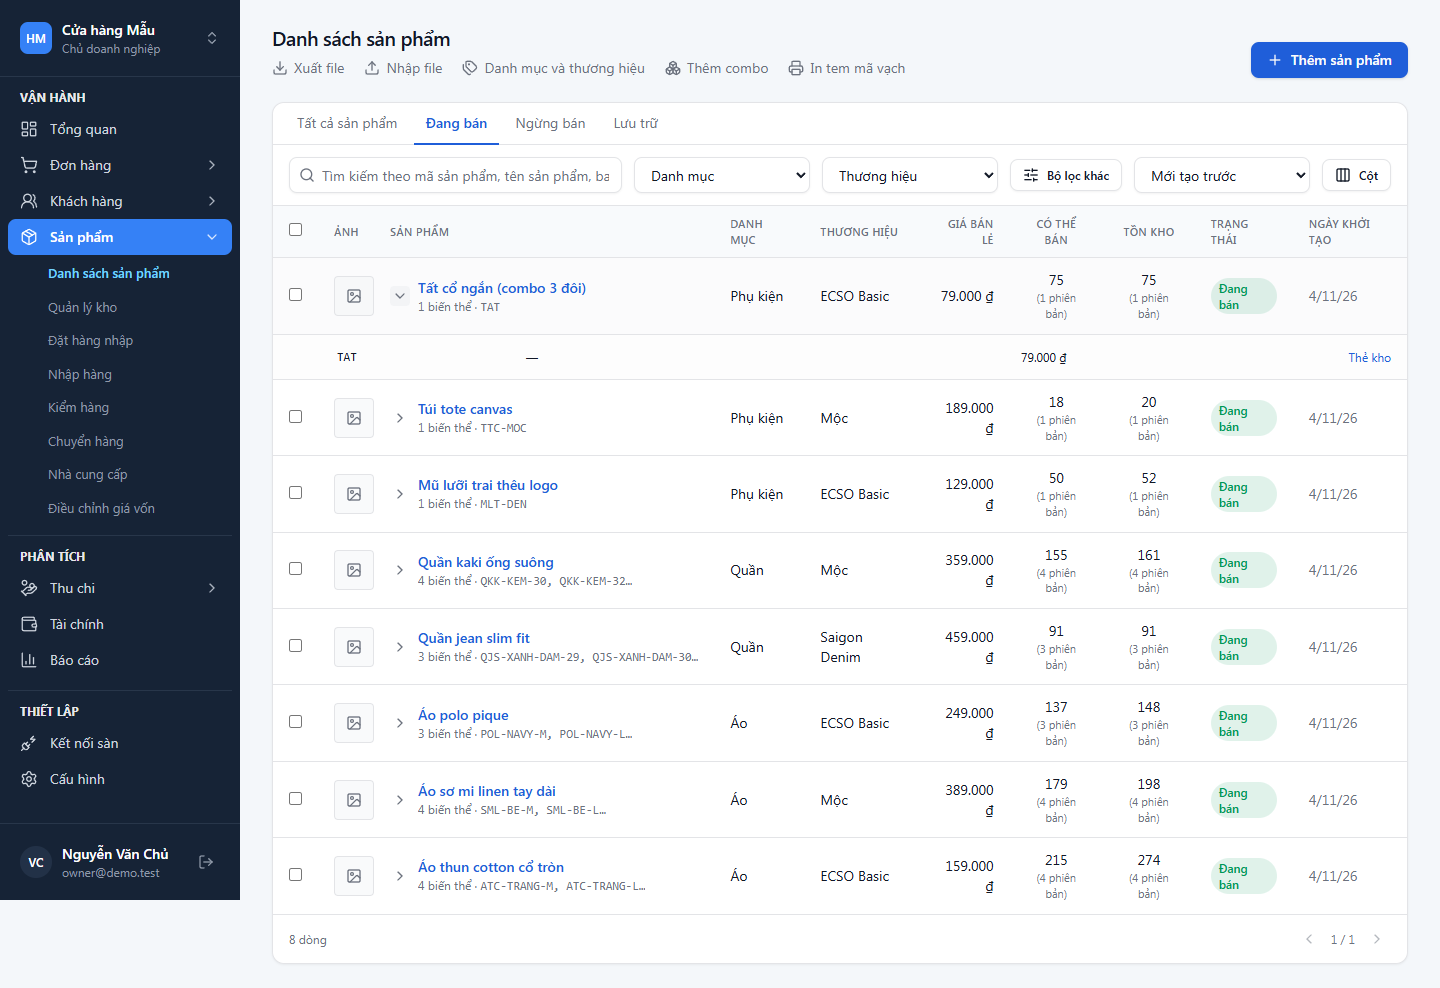
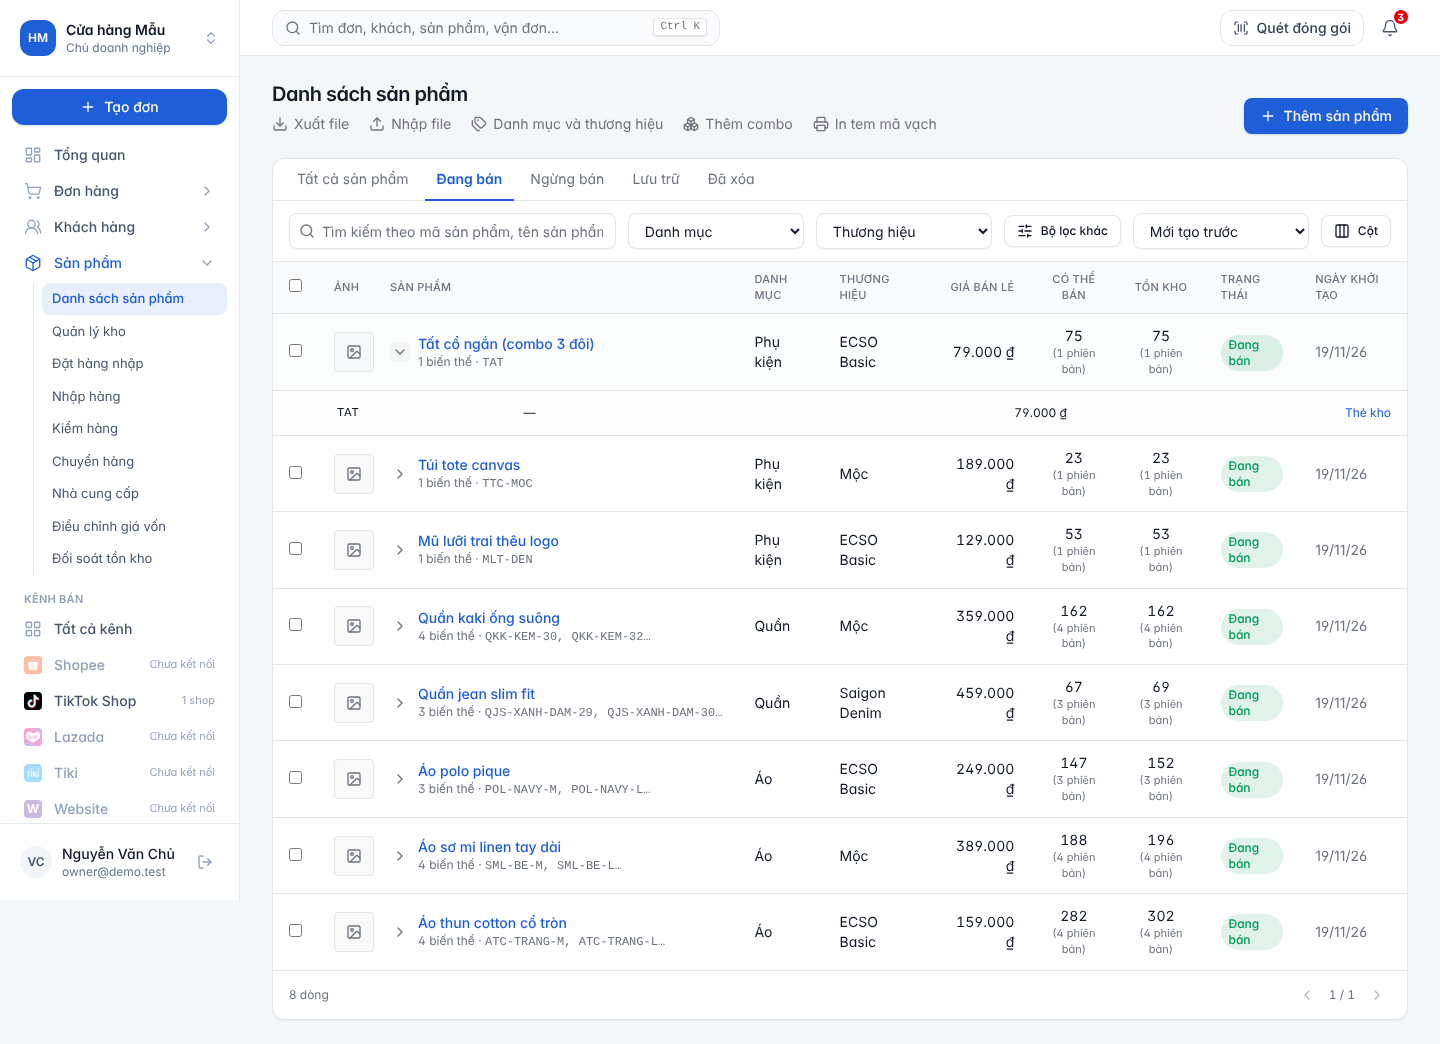
Sidebar mới: nền trắng, nút Tạo đơn, mỗi sàn một dòng riêng
- Menu trắng giữ đủ mục con; nhóm đang mở có đường kẻ dọc, mục đang chọn nền xanh nhạt.
- Kênh bán: Tất cả kênh, Shopee, TikTok Shop, Lazada, Tiki, Website (logo + số shop hoặc Chưa kết nối), Trung tâm đồng bộ.
- Trang Kết nối sàn lọc theo ?san=<sàn> khi mở từ dòng của sàn đó.
- Thanh trên có nút Quét đóng gói; nội dung rộng tới 1600px thay vì 1280px.

Claude-Session: https://claude.ai/code/session_01MAbhYuP6fzuvEtxHf4QSn8

diff --git a/resources/js/apps/tenant/layouts/AppLayout.vue b/resources/js/apps/tenant/layouts/AppLayout.vue
@@ -1,13 +1,15 @@
 <script setup lang="ts">
 import { computed, ref, watch } from 'vue';
 import { useRoute, useRouter } from 'vue-router';
-import { Check, ChevronDown, ChevronRight, ChevronsUpDown, LogOut, Plus, Search } from 'lucide-vue-next';
+import { Check, ChevronDown, ChevronRight, ChevronsUpDown, LogOut, Plus, ScanBarcode, Search } from 'lucide-vue-next';
 import { useAuthStore } from '@/shared/stores/auth';
 import { useTenantStore } from '@/shared/stores/tenant';
 import { useGoShortcuts } from '@/shared/composables/useShortcuts';
 import { useToast } from '@/shared/composables/useToast';
 import { cn, initials } from '@/shared/lib/utils';
 import Badge from '@/shared/ui/Badge.vue';
+import MarketplaceLogo from '@/shared/ui/MarketplaceLogo.vue';
+import { api } from '@/shared/lib/api';
 import { allNavItems, navGroups, type NavItem } from '../navigation';
 import GlobalSearch from '../components/GlobalSearch.vue';
 import NotificationBell from '../components/NotificationBell.vue';
@@ -44,7 +46,33 @@ const visibleGroups = computed(() =>
 );
 
 // Sidebar sub-menus (like Sapo): the section of the current page is open; others open with the chevron.
-const isActive = (item: NavItem) => route.meta.nav === item.name || (item.alsoActive ?? []).includes(String(route.meta.nav));
+const isActive = (item: NavItem) => {
+    // Kênh bán: one line per marketplace (?san=key), "Tất cả kênh" for the rest of the marketplace pages, the sync centre on its own.
+    if (item.marketplace) return route.meta.nav === 'marketplaces' && route.query.san === item.marketplace;
+    if (item.name === 'marketplace-sync') return route.name === 'marketplace-sync';
+    if (item.name === 'marketplaces') return route.meta.nav === 'marketplaces' && !route.query.san && route.name !== 'marketplace-sync';
+    return route.meta.nav === item.name || (item.alsoActive ?? []).includes(String(route.meta.nav));
+};
+
+/** Connected shops per marketplace, shown beside each marketplace line. */
+const shopCounts = ref<Record<string, number>>({});
+async function loadShopCounts() {
+    shopCounts.value = {};
+    if (!tenant.can('marketplace.view')) return;
+    try {
+        const { data } = await api.get('/marketplace-accounts');
+        const counts: Record<string, number> = {};
+        for (const a of data.data as { marketplace: string; status: string }[]) if (a.status === 'connected') counts[a.marketplace] = (counts[a.marketplace] ?? 0) + 1;
+        shopCounts.value = counts;
+    } catch {
+        // The menu still works without the counts.
+    }
+}
+watch(() => tenant.current?.id, loadShopCounts, { immediate: true });
+const shopCountLabel = (key: string) => {
+    const n = shopCounts.value[key] ?? 0;
+    return n ? `${n} ${key === 'woocommerce' ? 'web' : 'shop'}` : 'Chưa kết nối';
+};
 const open = ref<Set<string>>(new Set());
 watch(
     () => route.meta.nav,
@@ -95,25 +123,25 @@ useGoShortcuts(
         <aside
             :class="
                 cn(
-                    'fixed inset-y-0 left-0 z-40 flex w-60 flex-col bg-sidebar text-sidebar-foreground transition-transform lg:sticky lg:top-0 lg:h-screen lg:translate-x-0',
+                    'fixed inset-y-0 left-0 z-40 flex w-60 flex-col border-r border-slate-200 bg-white text-slate-700 transition-transform lg:sticky lg:top-0 lg:h-screen lg:translate-x-0',
                     mobileOpen ? 'translate-x-0' : '-translate-x-full',
                 )
             "
         >
-            <div class="relative border-b border-sidebar-border p-3">
+            <div class="relative border-b border-slate-200 p-3">
                 <button
-                    class="flex w-full items-center gap-2.5 rounded-md p-2 text-left hover:bg-sidebar-hover"
+                    class="flex w-full items-center gap-2.5 rounded-lg p-2 text-left hover:bg-slate-100"
                     data-testid="tenant-switcher"
                     @click="switcherOpen = !switcherOpen"
                 >
-                    <span class="flex size-8 shrink-0 items-center justify-center rounded-md bg-sidebar-active text-xs font-semibold text-white">
+                    <span class="flex size-9 shrink-0 items-center justify-center rounded-xl bg-primary text-xs font-semibold text-white">
                         {{ initials(tenant.current?.name ?? '?') }}
                     </span>
                     <span class="min-w-0 flex-1">
-                        <span class="block truncate text-sm font-semibold text-white">{{ tenant.current?.name }}</span>
-                        <span class="block truncate text-xs text-sidebar-muted">{{ tenant.context?.role.name }}</span>
+                        <span class="block truncate text-sm font-semibold text-slate-900">{{ tenant.current?.name }}</span>
+                        <span class="block truncate text-xs text-slate-500">{{ tenant.context?.role.name }}</span>
                     </span>
-                    <ChevronsUpDown class="size-4 text-sidebar-muted" />
+                    <ChevronsUpDown class="size-4 text-slate-400" />
                 </button>
                 <div v-if="switcherOpen" class="absolute left-3 right-3 top-full z-50 mt-1 rounded-md border bg-card p-1 text-foreground shadow-lg">
                     <p class="px-2 py-1.5 text-xs font-medium text-muted-foreground">Doanh nghiệp của bạn</p>
@@ -134,15 +162,21 @@ useGoShortcuts(
                 </div>
             </div>
 
-            <nav class="flex-1 overflow-y-auto px-2 py-3">
-                <div v-for="(group, i) in visibleGroups" :key="group.label" :class="i > 0 && 'mt-3 border-t border-sidebar-border pt-3'">
-                    <p class="px-3 pb-1.5 text-xs font-bold uppercase text-white/90">{{ group.label }}</p>
+            <div v-if="tenant.can('orders.create')" class="px-3 pt-3">
+                <RouterLink to="/orders/new" class="flex h-9 items-center justify-center gap-2 rounded-lg bg-primary text-sm font-medium text-white shadow-sm hover:bg-primary/90" data-testid="sidebar-new-order" @click="mobileOpen = false">
+                    <Plus class="size-4" /> Tạo đơn
+                </RouterLink>
+            </div>
+
+            <nav class="flex-1 overflow-y-auto px-3 py-3">
+                <div v-for="(group, i) in visibleGroups" :key="group.label" :class="i > 0 && 'mt-4'">
+                    <p v-if="i > 0" class="px-3 pb-1 text-[11px] font-semibold uppercase tracking-wide text-slate-400">{{ group.label }}</p>
                     <div v-for="item in group.items" :key="item.name">
                         <div
                             :class="
                                 cn(
-                                    'group flex items-center rounded-md text-sm text-sidebar-foreground hover:bg-sidebar-hover hover:text-white',
-                                    isActive(item) && 'bg-sidebar-active font-medium text-white hover:bg-sidebar-active',
+                                    'group flex items-center rounded-lg text-sm font-medium text-slate-600 hover:bg-slate-100 hover:text-slate-900',
+                                    isActive(item) && (item.children?.length ? 'text-primary hover:text-primary' : 'bg-primary/10 text-primary hover:bg-primary/10 hover:text-primary'),
                                 )
                             "
                         >
@@ -154,22 +188,24 @@ useGoShortcuts(
                                 :aria-expanded="open.has(item.name)"
                                 @click="toggleOpen(item.name)"
                             >
-                                <component :is="item.icon" class="size-[18px] shrink-0" :stroke-width="1.75" />
+                                <component :is="item.icon" :class="cn('size-[18px] shrink-0', isActive(item) ? 'text-primary' : 'text-slate-400')" :stroke-width="1.75" />
                                 <span class="flex-1 truncate">{{ item.label }}</span>
-                                <ChevronDown v-if="open.has(item.name)" class="size-4 opacity-80" /><ChevronRight v-else class="size-4 opacity-80" />
+                                <ChevronDown v-if="open.has(item.name)" class="size-4 text-slate-400" /><ChevronRight v-else class="size-4 text-slate-400" />
                             </button>
-                            <RouterLink v-else :to="item.path" class="flex min-w-0 flex-1 items-center gap-3 px-3 py-2" @click="mobileOpen = false">
-                                <component :is="item.icon" class="size-[18px] shrink-0" :stroke-width="1.75" />
-                                <span class="flex-1 truncate">{{ item.label }}</span>
+                            <RouterLink v-else :to="item.path" class="flex min-w-0 flex-1 items-center gap-3 px-3 py-2" :data-testid="item.marketplace ? `nav-${item.marketplace}` : undefined" @click="mobileOpen = false">
+                                <MarketplaceLogo v-if="item.marketplace" :marketplace="item.marketplace" :name="item.label" size="sm" :class="cn('size-[18px]', !shopCounts[item.marketplace] && 'opacity-40')" />
+                                <component :is="item.icon" v-else :class="cn('size-[18px] shrink-0', isActive(item) ? 'text-primary' : 'text-slate-400')" :stroke-width="1.75" />
+                                <span :class="cn('flex-1 truncate', item.marketplace && !shopCounts[item.marketplace] && !isActive(item) && 'text-slate-400')">{{ item.label }}</span>
+                                <span v-if="item.marketplace" class="shrink-0 text-[11px] font-normal text-slate-400">{{ shopCountLabel(item.marketplace) }}</span>
                                 <Badge v-if="item.phase" tone="muted" class="px-1.5 text-[10px]">{{ item.phase > 8 ? "Sau MVP" : "P" + item.phase }}</Badge>
                             </RouterLink>
                         </div>
-                        <div v-if="item.children?.length && open.has(item.name)" class="mb-1 mt-0.5 space-y-0.5">
+                        <div v-if="item.children?.length && open.has(item.name)" class="mb-1 ml-[21px] mt-0.5 space-y-px border-l border-slate-200 pl-2">
                             <RouterLink
                                 v-for="c in item.children"
                                 :key="c.path"
                                 :to="c.path"
-                                :class="cn('block rounded-md py-1.5 pl-10 pr-3 text-[13px] text-sidebar-muted hover:bg-sidebar-hover hover:text-white', activeChild === c.path && 'font-medium text-sky-300 hover:text-sky-200')"
+                                :class="cn('block rounded-md px-2.5 py-1.5 text-[13px] text-slate-600 hover:bg-slate-100 hover:text-slate-900', activeChild === c.path && 'bg-primary/10 font-medium text-primary hover:bg-primary/10 hover:text-primary')"
                                 @click="mobileOpen = false"
                             >
                                 {{ c.label }}
@@ -179,14 +215,14 @@ useGoShortcuts(
                 </div>
             </nav>
 
-            <div class="border-t border-sidebar-border p-3">
-                <div class="flex items-center gap-2.5 rounded-md p-2">
-                    <span class="flex size-8 items-center justify-center rounded-full bg-sidebar-hover text-xs font-semibold text-white">{{ initials(auth.user?.name ?? '') }}</span>
+            <div class="border-t border-slate-200 p-3">
+                <div class="flex items-center gap-2.5 rounded-lg p-2">
+                    <span class="flex size-8 items-center justify-center rounded-full bg-slate-100 text-xs font-semibold text-slate-600">{{ initials(auth.user?.name ?? '') }}</span>
                     <span class="min-w-0 flex-1">
-                        <span class="block truncate text-sm font-medium text-white">{{ auth.user?.name }}</span>
-                        <span class="block truncate text-xs text-sidebar-muted">{{ auth.user?.email }}</span>
+                        <span class="block truncate text-sm font-medium text-slate-900">{{ auth.user?.name }}</span>
+                        <span class="block truncate text-xs text-slate-500">{{ auth.user?.email }}</span>
                     </span>
-                    <button class="rounded p-1.5 text-sidebar-muted hover:bg-sidebar-hover hover:text-white" title="Đăng xuất" @click="logout">
+                    <button class="rounded p-1.5 text-slate-400 hover:bg-slate-100 hover:text-slate-700" title="Đăng xuất" @click="logout">
                         <LogOut class="size-4" />
                     </button>
                 </div>
@@ -210,6 +246,9 @@ useGoShortcuts(
                     <kbd class="rounded border border-b-2 bg-card px-1.5 text-[11px]">Ctrl K</kbd>
                 </button>
                 <div class="ml-auto flex items-center gap-1">
+                    <RouterLink v-if="tenant.can('orders.pack')" to="/orders/pack" class="mr-1 hidden h-9 items-center gap-2 rounded-lg border bg-card px-3 text-sm font-medium text-slate-700 hover:bg-slate-50 sm:flex" data-testid="topbar-scan">
+                        <ScanBarcode class="size-4" :stroke-width="1.75" /> Quét đóng gói
+                    </RouterLink>
                     <button type="button" class="grid size-9 place-items-center rounded-lg text-slate-600 hover:bg-slate-100 sm:hidden" aria-label="Tìm kiếm" @click="searchOpen = true">
                         <Search class="size-[18px]" :stroke-width="1.75" />
                     </button>
@@ -218,7 +257,7 @@ useGoShortcuts(
             </header>
             <DemoBanner />
             <GlobalSearch v-model:open="searchOpen" />
-            <main :class="cn('mx-auto w-full max-w-7xl flex-1 px-4 py-6 sm:px-6 lg:px-8 lg:pb-6', route.path === '/pos' ? 'pb-6' : 'pb-28')">
+            <main :class="cn('mx-auto w-full max-w-[1600px] flex-1 px-4 py-6 sm:px-6 lg:px-8 lg:pb-6', route.path === '/pos' ? 'pb-6' : 'pb-28')">
                 <RouterView :key="tenant.current?.id" />
             </main>
             <MobileNav @switch-tenant="switchTenant" @logout="logout" />

diff --git a/resources/js/apps/tenant/pages/marketplaces/Marketplaces.vue b/resources/js/apps/tenant/pages/marketplaces/Marketplaces.vue
@@ -1,6 +1,6 @@
 <script setup lang="ts">
 import { computed, onMounted, ref } from 'vue';
-import { useRouter } from 'vue-router';
+import { useRoute, useRouter } from 'vue-router';
 import { AlertTriangle, BadgePercent, FlaskConical, Link2, PlugZap, RefreshCw, Send, Settings2, Unplug, Zap, History } from 'lucide-vue-next';
 import PageHeader from '../../PageHeader.vue';
 import Badge from '@/shared/ui/Badge.vue';
@@ -21,11 +21,18 @@ import { useTenantStore } from '@/shared/stores/tenant';
 import { capabilityLabels, capabilityNames, orderStatus } from '../orders/labels';
 import TikiConnectDialog from './TikiConnectDialog.vue';
 import WooConnectDialog from './WooConnectDialog.vue';
+import { marketplaceLines } from '../../navigation';
 import type { MarketplaceAccountData, MarketplaceCatalogEntry, OrderSummary, Warehouse } from '@/shared/types';
 
 const tenant = useTenantStore();
 const toast = useToast();
 const router = useRouter();
+const route = useRoute();
+
+/** One marketplace's own page from the sidebar (?san=shopee); without it, every channel. */
+const san = computed(() => (typeof route.query.san === 'string' ? route.query.san : null));
+const sanName = computed(() => marketplaceLines.find(([k]) => k === san.value)?.[1] ?? null);
+const shownAccounts = computed(() => (san.value ? accounts.value.filter((a) => a.marketplace === san.value) : accounts.value));
 
 const catalog = ref<MarketplaceCatalogEntry[]>([]);
 const accounts = ref<MarketplaceAccountData[]>([]);
@@ -43,7 +50,7 @@ const connectError = ref<ApiError | null>(null);
 const sim = ref<{ account: MarketplaceAccountData; failing: boolean; statuses: string[]; orders: OrderSummary[] } | null>(null);
 const simForm = ref({ count: 3, status: 'fake_ready', max_items: 2, order: '', to: 'fake_packed' });
 
-const realMarketplaces = computed(() => catalog.value.filter((c) => !c.is_fake));
+const realMarketplaces = computed(() => catalog.value.filter((c) => !c.is_fake && (!san.value || c.key === san.value)));
 const connectNotice = ref<{ key: string; message: string } | null>(null);
 
 const wooOpen = ref(false);
@@ -195,7 +202,7 @@ const accountLabel = (a: MarketplaceAccountData) => (a.status !== 'connected' ? 
 </script>
 
 <template>
-    <PageHeader title="Kết nối sàn" description="Chỉ dùng API chính thức của sàn. Thao tác nào chưa được xác minh với tài liệu và credentials thật được đánh dấu UNKNOWN và không được giả lập.">
+    <PageHeader :title="sanName ?? 'Kết nối sàn'" description="Chỉ dùng API chính thức của sàn. Thao tác nào chưa được xác minh với tài liệu và credentials thật được đánh dấu UNKNOWN và không được giả lập.">
         <RouterLink v-if="tenant.can('sync.view')" to="/marketplaces/sync"><Button variant="outline" data-testid="sync-log-link"><History /> Trung tâm đồng bộ</Button></RouterLink>
         <RouterLink to="/marketplaces/prices"><Button variant="outline" data-testid="price-board-link"><BadgePercent /> Bảng giá sàn</Button></RouterLink>
         <Button variant="outline" :loading="loading" @click="load"><RefreshCw /> Làm mới</Button>
@@ -208,9 +215,9 @@ const accountLabel = (a: MarketplaceAccountData) => (a.status !== 'connected' ? 
             <template v-if="tenant.can('marketplace.connect') && catalog.some((c) => c.is_fake)" #actions>
                 <Button size="sm" data-testid="connect-fake" @click="connectOpen = true"><FlaskConical /> Kết nối shop giả lập</Button>
             </template>
-            <EmptyState v-if="!accounts.length" :icon="PlugZap" title="Chưa kết nối gian hàng nào" description="Website WooCommerce kết nối được ngay. Tiki kết nối bằng ứng dụng riêng của shop. Shopee, TikTok Shop, Lazada cần app credentials của sàn (chưa có)." />
+            <EmptyState v-if="!shownAccounts.length" :icon="PlugZap" title="Chưa kết nối gian hàng nào" description="Website WooCommerce kết nối được ngay. Tiki kết nối bằng ứng dụng riêng của shop. Shopee, TikTok Shop, Lazada cần app credentials của sàn (chưa có)." />
             <ul v-else class="divide-y" data-testid="account-list">
-                <li v-for="a in accounts" :key="a.id" class="flex flex-wrap items-center gap-4 px-5 py-4">
+                <li v-for="a in shownAccounts" :key="a.id" class="flex flex-wrap items-center gap-4 px-5 py-4">
                     <MarketplaceLogo :marketplace="a.marketplace" :name="a.marketplace_name" size="lg" />
                     <div class="min-w-56 flex-1">
                         <div class="flex items-center gap-2">

diff --git a/resources/js/apps/tenant/navigation.ts b/resources/js/apps/tenant/navigation.ts
@@ -3,8 +3,9 @@ import {
     CreditCard,
     HandCoins,
     LayoutDashboard,
+    LayoutGrid,
+    RefreshCw,
     Package,
-    PlugZap,
     ReceiptText,
     ScrollText,
     Settings,
@@ -34,6 +35,8 @@ export interface NavItem {
     anyPermission?: string[];
     /** Other route `meta.nav` values that belong to this item (e.g. returns under orders). */
     alsoActive?: string[];
+    /** One marketplace's own line under Kênh bán (shows its logo and how many shops are connected). */
+    marketplace?: string;
 }
 
 export interface NavChild {
@@ -41,6 +44,15 @@ export interface NavChild {
     path: string;
     permission?: string;
 }
+
+/** Marketplaces listed one per line under Kênh bán, in this order. */
+export const marketplaceLines: [string, string][] = [
+    ['shopee', 'Shopee'],
+    ['tiktok', 'TikTok Shop'],
+    ['lazada', 'Lazada'],
+    ['tiki', 'Tiki'],
+    ['woocommerce', 'Website'],
+];
 
 export const navGroups: { label: string; items: NavItem[] }[] = [
     {
@@ -76,6 +88,15 @@ export const navGroups: { label: string; items: NavItem[] }[] = [
         ],
     },
     {
+        // Each marketplace has its own line (Tai: do not group the marketplaces into one item).
+        label: 'Kênh bán',
+        items: [
+            { name: 'marketplaces', label: 'Tất cả kênh', path: '/marketplaces', icon: LayoutGrid, permission: 'marketplace.view', description: 'Kết nối Shopee, TikTok Shop, Lazada, Tiki và website bằng API chính thức.' },
+            ...marketplaceLines.map(([key, label]) => ({ name: `marketplace-${key}`, label, path: `/marketplaces?san=${key}`, icon: Store, permission: 'marketplace.view', marketplace: key })),
+            { name: 'marketplace-sync', label: 'Trung tâm đồng bộ', path: '/marketplaces/sync', icon: RefreshCw, permission: 'sync.view' },
+        ],
+    },
+    {
         label: 'Phân tích',
         items: [
             { name: 'cash', label: 'Thu chi', path: '/cash', icon: HandCoins, permission: 'finance.view', shortcut: 'q', description: 'Phiếu thu, phiếu chi, sổ quỹ, đối soát COD và loại phiếu.',
@@ -94,8 +115,6 @@ export const navGroups: { label: string; items: NavItem[] }[] = [
     {
         label: 'Thiết lập',
         items: [
-            { name: 'marketplaces', label: 'Kết nối sàn', path: '/marketplaces', icon: PlugZap, permission: 'marketplace.view', description: 'Kết nối Shopee, TikTok Shop, Lazada, Tiki bằng API chính thức.',
-                children: [{ label: 'Shop & tài khoản', path: '/marketplaces' }, { label: 'Trung tâm đồng bộ', path: '/marketplaces/sync', permission: 'sync.view' }] },
             { name: 'settings', label: 'Cấu hình', path: '/settings', icon: Settings, permission: 'settings.manage', anyPermission: ['members.view', 'billing.view', 'audit.view'], shortcut: 's', alsoActive: ['members', 'subscription', 'audit', 'sales-channels'] },
             // Reached from Cấu hình like Sapo; kept here for their shortcuts and access checks.
             { name: 'sales-channels', label: 'Kênh bán riêng', path: '/sales-channels', icon: Store, permission: 'orders.view', hidden: true, description: 'Quầy, cửa hàng, Facebook, Zalo, website.' },

diff --git a/e2e/orders.spec.ts b/e2e/orders.spec.ts
@@ -8,8 +8,8 @@ test.describe.configure({ mode: 'serial' });
 
 test('marketplaces: capability matrix, fake shop simulator, webhook monitor', async ({ page }) => {
     await login(page, 'owner@demo.test');
-    await page.getByRole('button', { name: 'Kết nối sàn' }).first().click();
-    await page.getByRole('link', { name: 'Shop & tài khoản' }).click();
+    // Kênh bán: "Tất cả kênh" lists every shop; each marketplace also has its own line.
+    await page.getByRole('link', { name: 'Tất cả kênh' }).click();
     await expect(page.getByTestId('account-list')).toContainText('Shop Demo');
     await expect(page.getByTestId('capability-matrix')).toContainText('UNKNOWN');
     await shot(page, '01-marketplaces');
